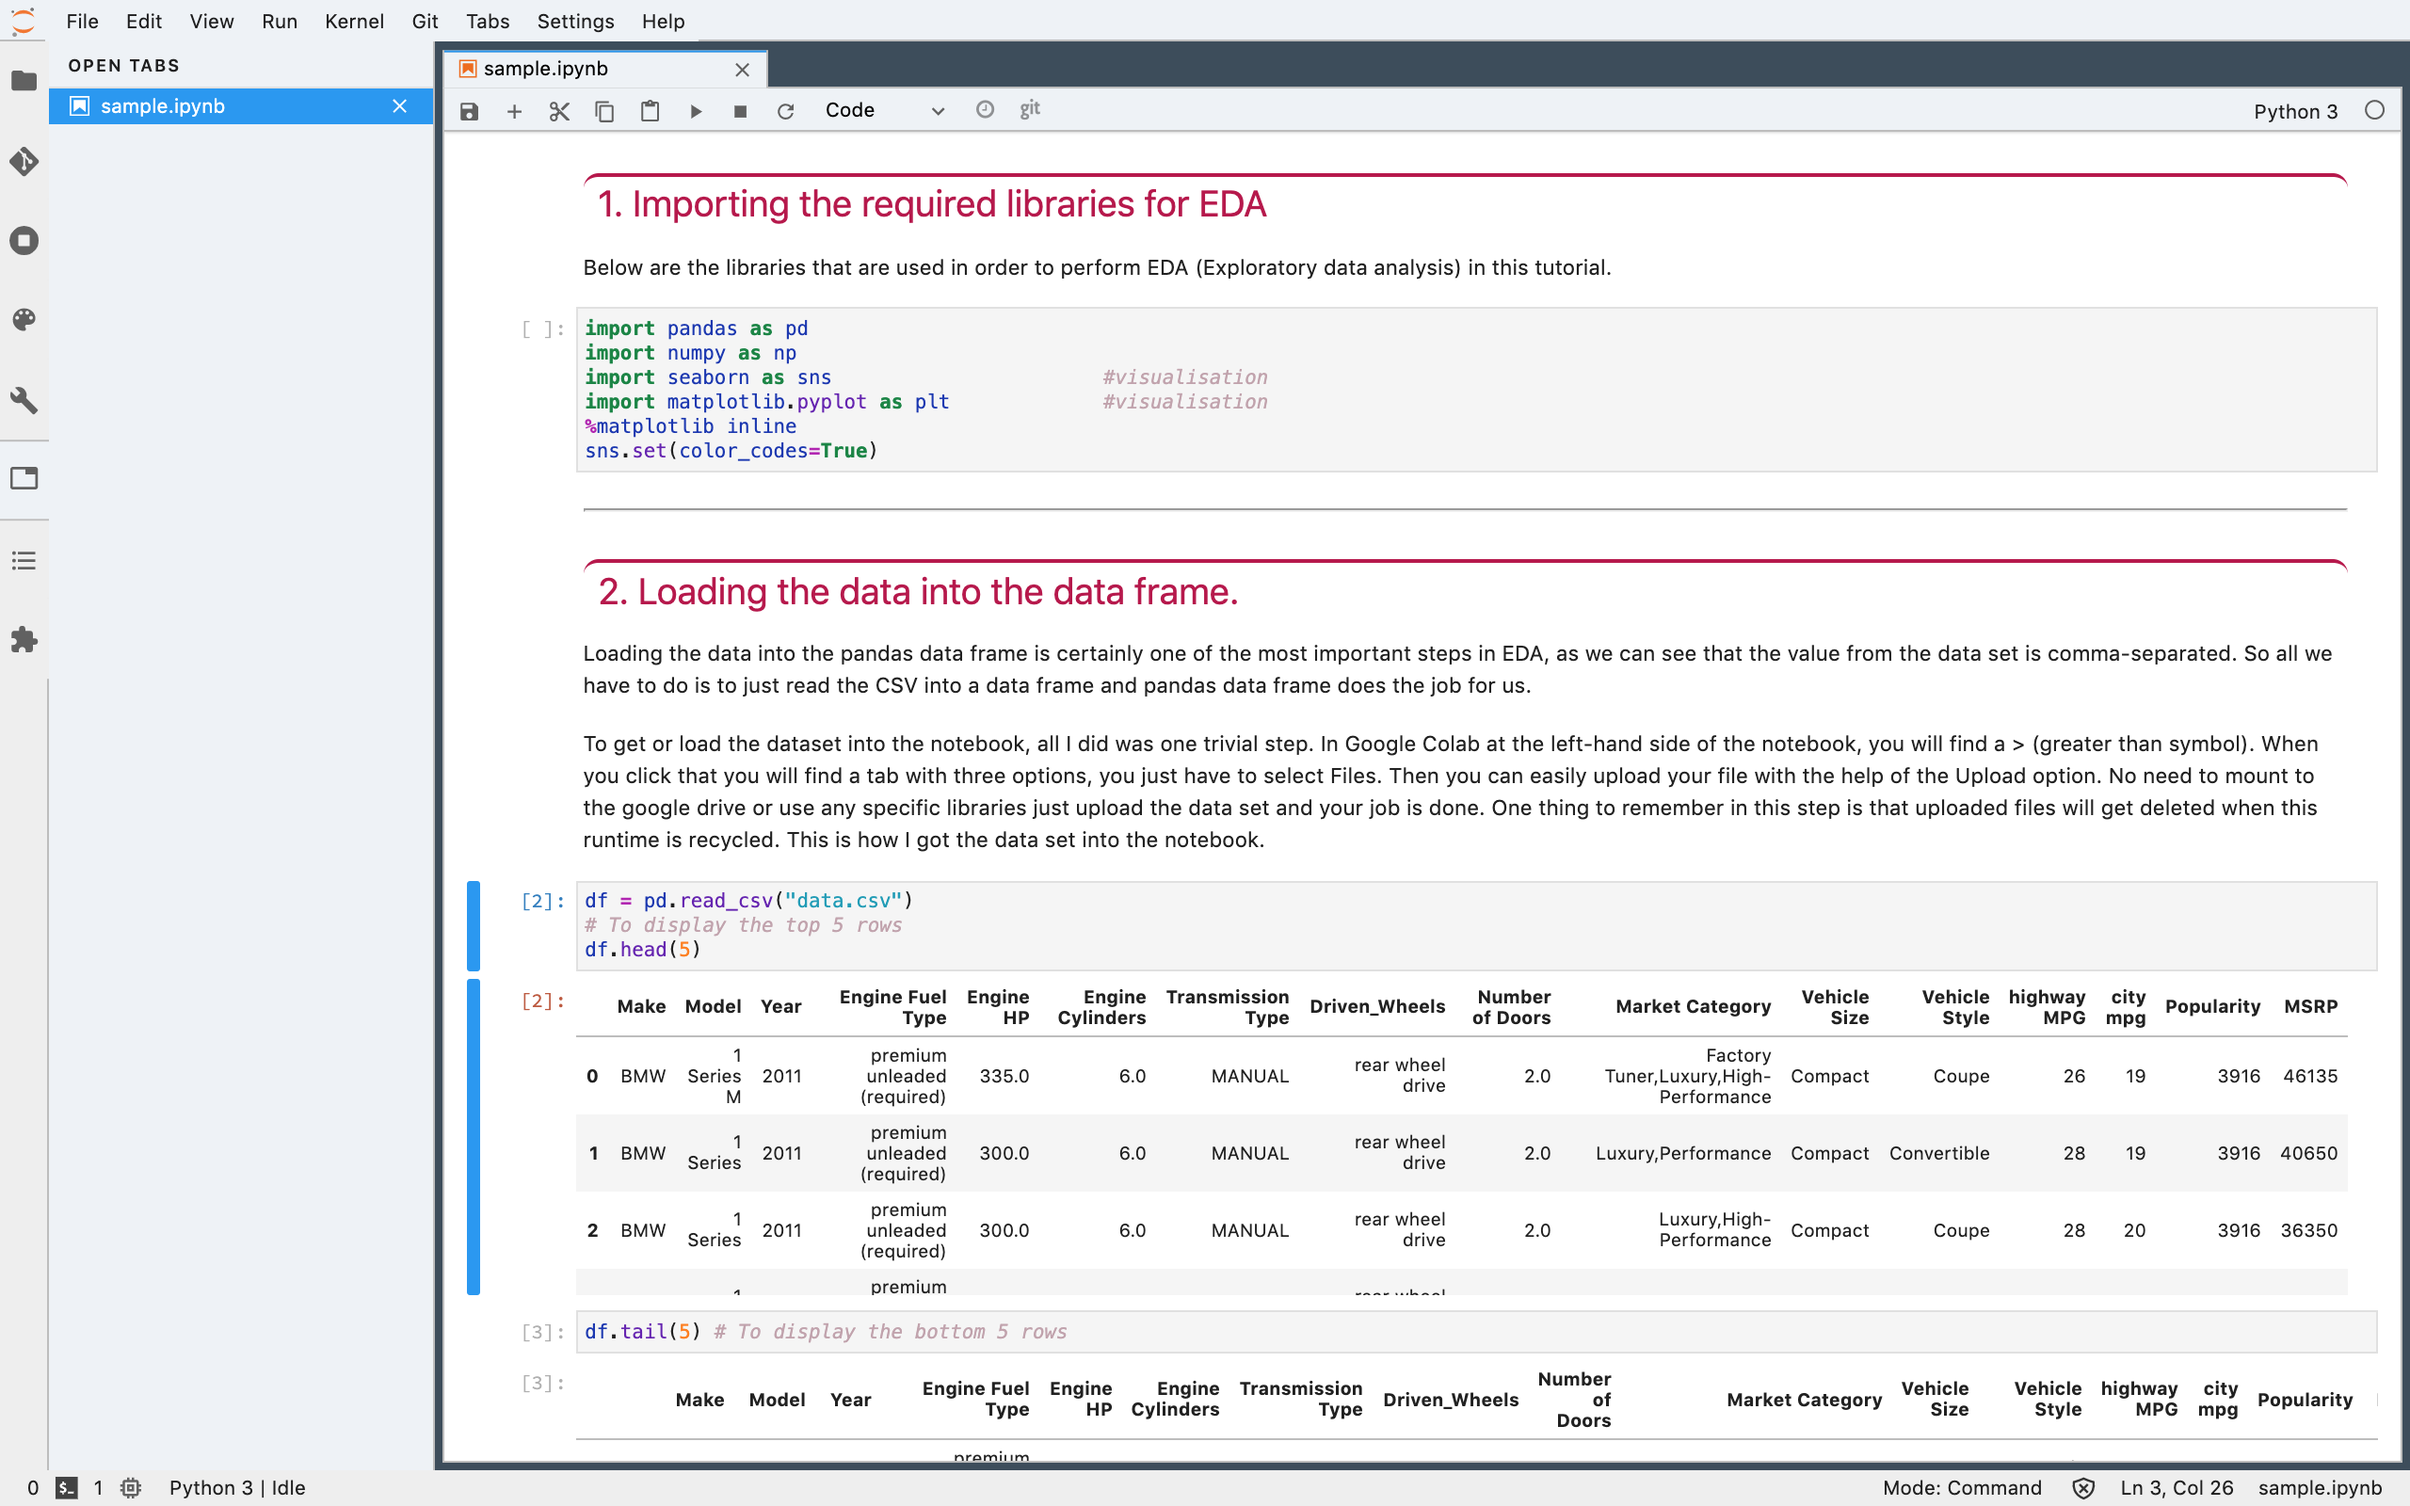
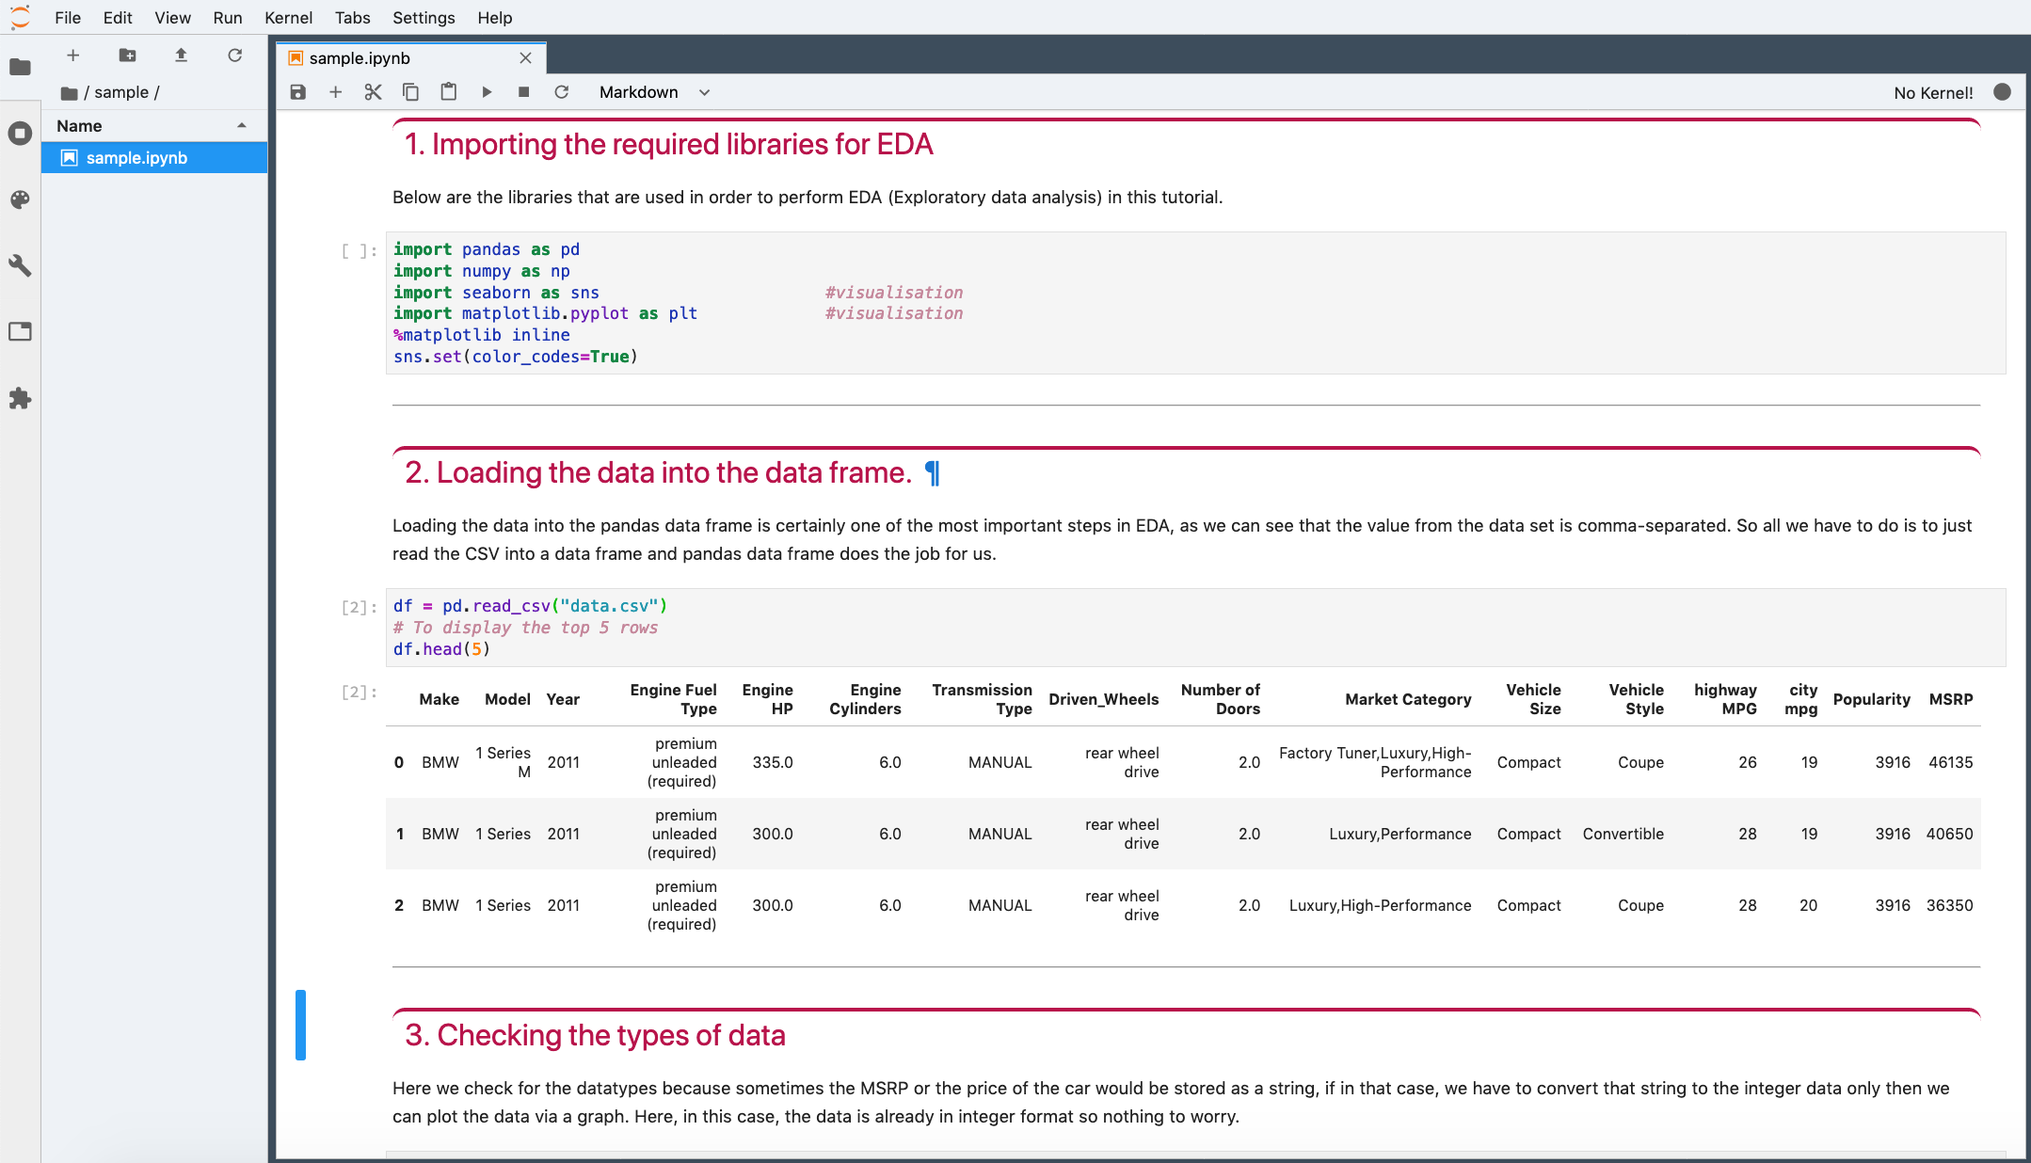
Update screenshot and autoscroll height

diff --git a/style/custom.css b/style/custom.css
@@ -52,7 +52,7 @@ body {
 
 /* Autoscroll outputs */
 .jp-OutputArea-child {
-    max-height: 15em;
+    max-height: 20em;
 }
 .jp-OutputArea-child .jp-OutputArea-output {
     overflow: auto;
